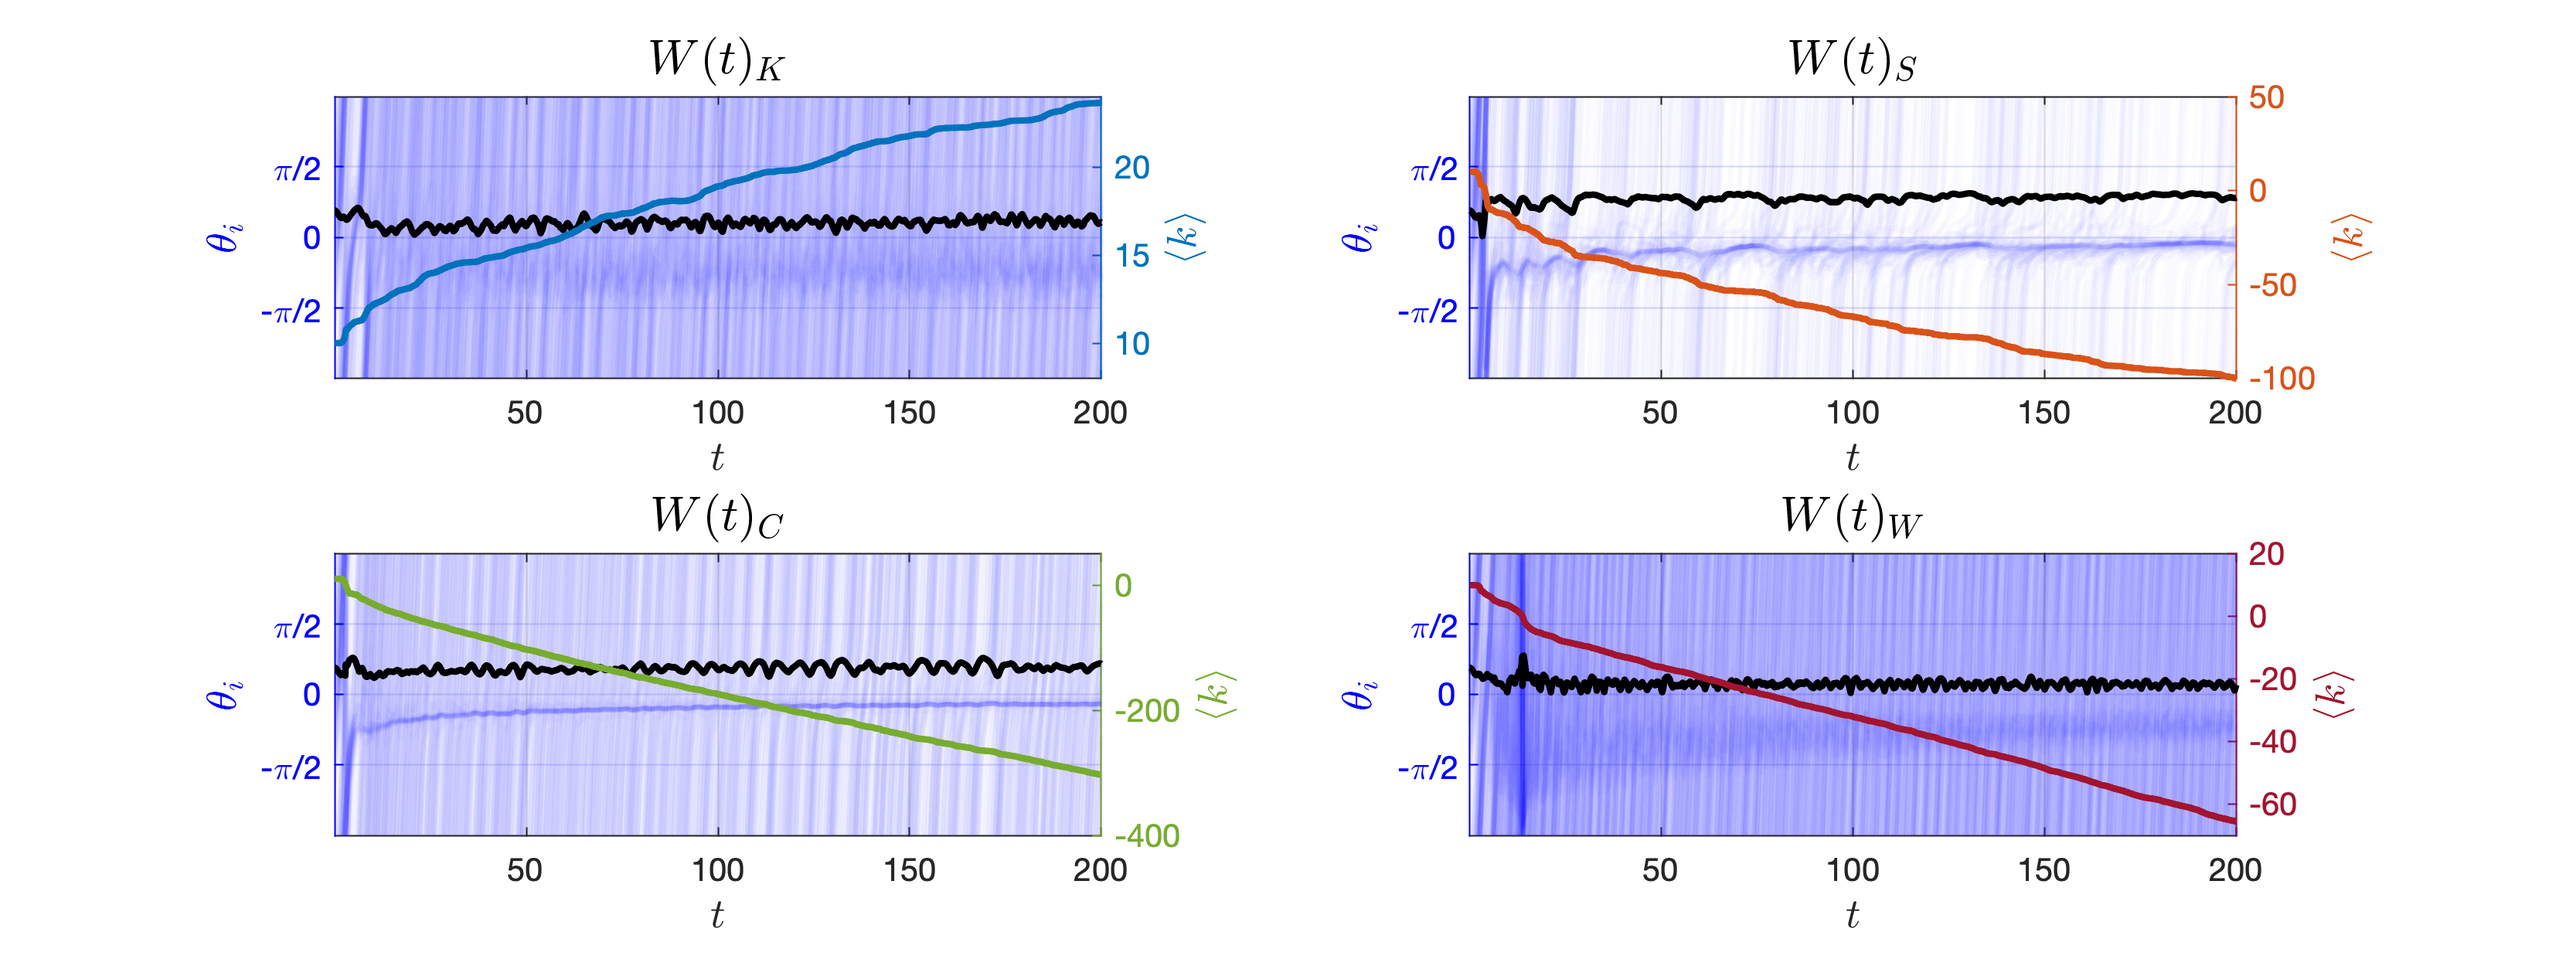
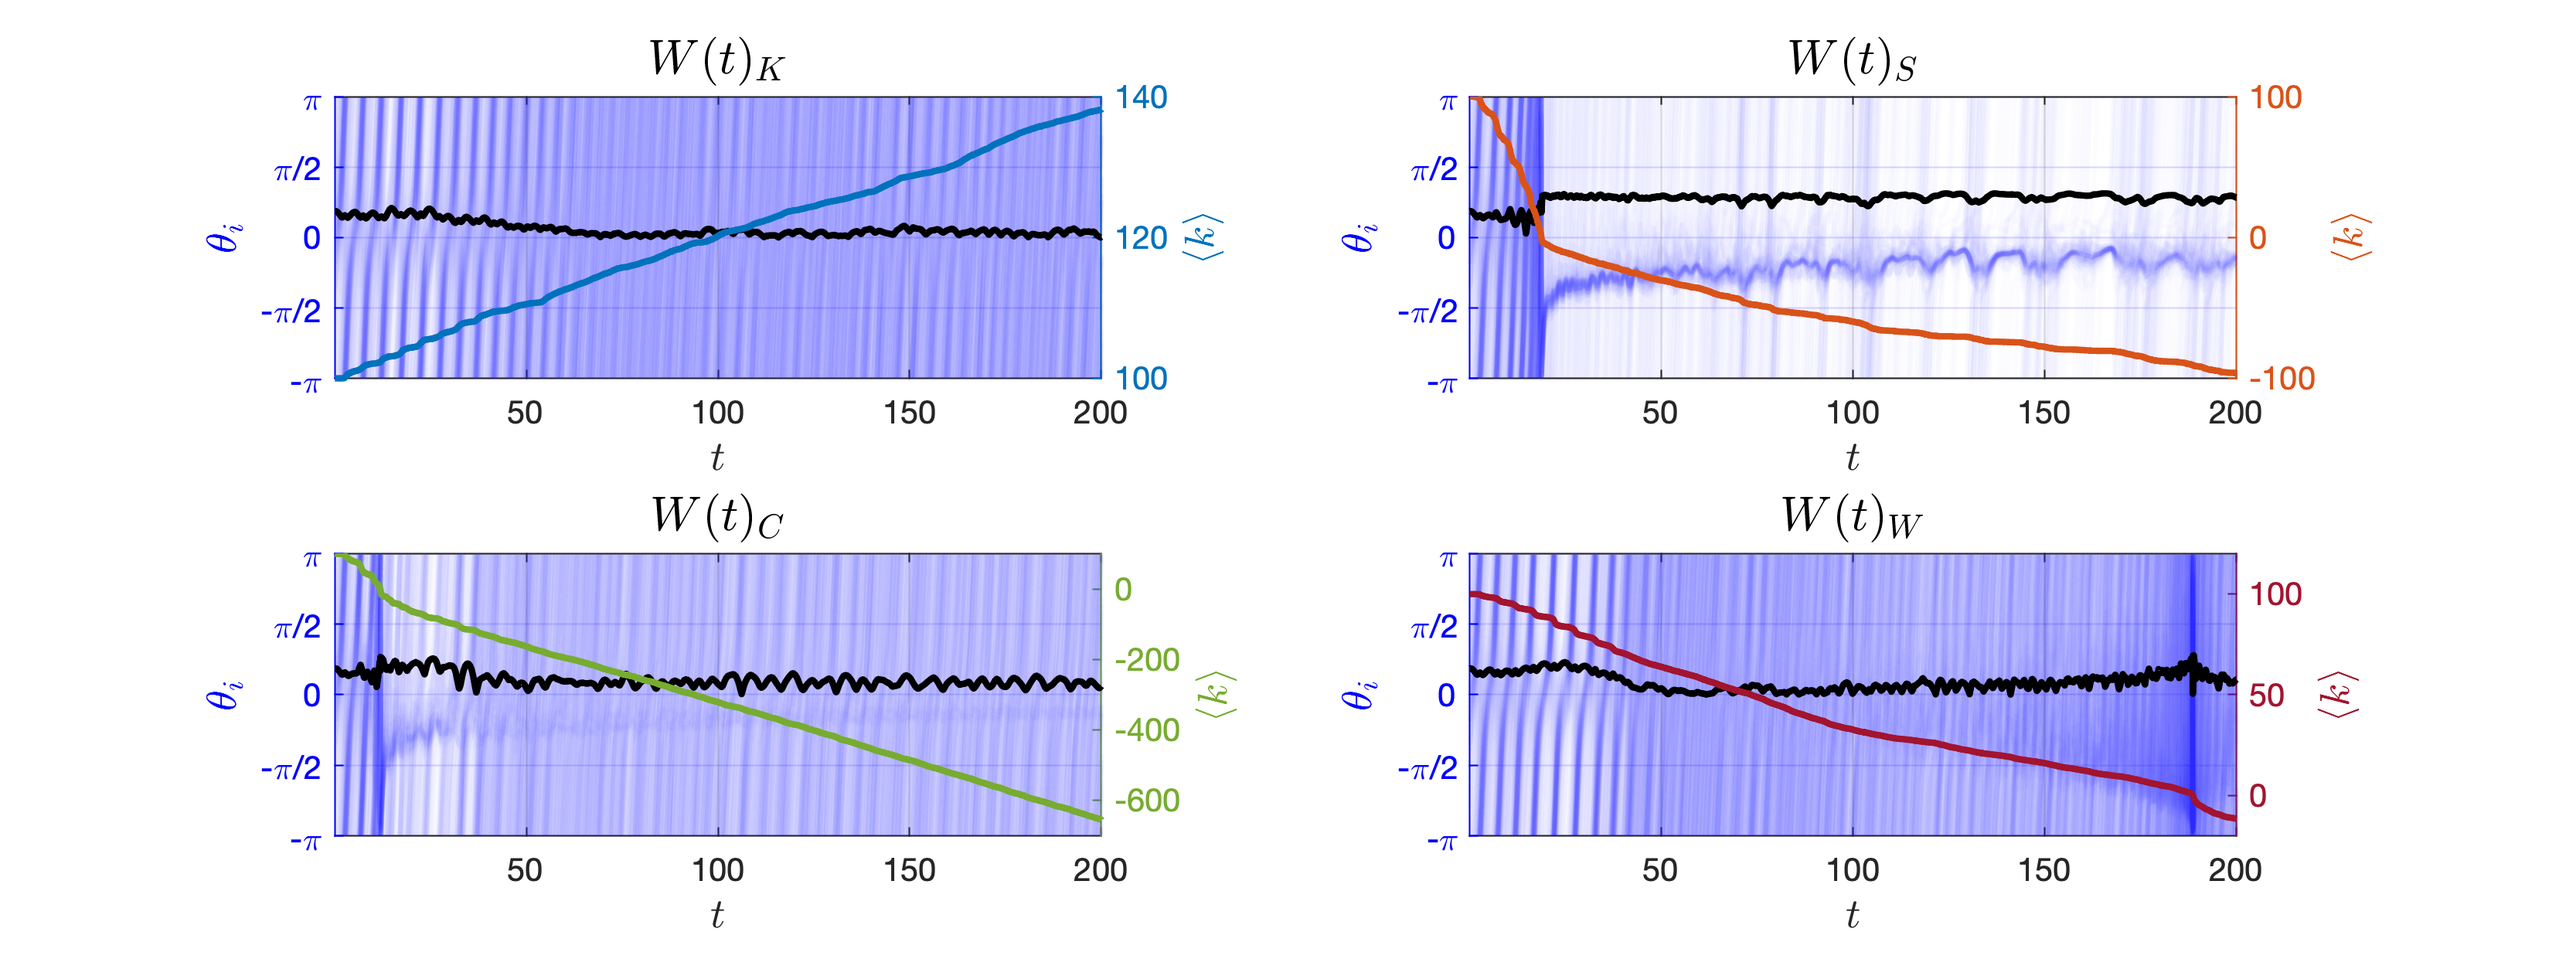
added the synaptic results

diff --git a/Functions/DOPRI_simulatenetwork_adaptive.m b/Functions/DOPRI_simulatenetwork_adaptive.m
@@ -18,9 +18,10 @@ function [tout, xout, K, Kmeans, info] = DOPRI_simulatenetwork_adaptive(ta,tb,x0
     window = plastopts.window;
     
     % Network parameters and handles:
-    K = initarray(0.1*ones(N, N));
+    K = initarray(ones(N, N));
     Kmeans = initarray(zeros(npts,1)); Kmeans(1) = sum(K, 'all')/N + 1.0e-15;
     lastspiketimes = initarray(zeros(N,1));
+    eps = 1.0e-15;
     
     % Pasticity options:
     synaptic_plasticity = plastopts.SP;
@@ -50,15 +51,17 @@ function [tout, xout, K, Kmeans, info] = DOPRI_simulatenetwork_adaptive(ta,tb,x0
             idx = sub2ind(size(dW),combos(1,:),combos(2,:));
             K(idx) = K(idx) + dW(idx);
             if synaptic_scaling
-                K = K * N * Kmeans(i) ./ sum(K,1);
+                K = K * Kmeans(i) ./ (sum(K,1) + eps);
+%                 dW(idx) = dW(idx) * Kmeans(i) ./ (sum(K(idx),1) + eps);
             end
+%             K(idx) = K(idx) + dW(idx);
         end
         
         if intrnsic_plasticity
             toimplement = 0;
         end
         
-        Kmeans(i+1) = sum(K, 'all')/N + 1.0e-15;
+        Kmeans(i+1) = sum(K, 'all')/N + eps;
 
         K7 = h*func(t, xout(:,i+1), K, Kmeans(i+1));
     end
